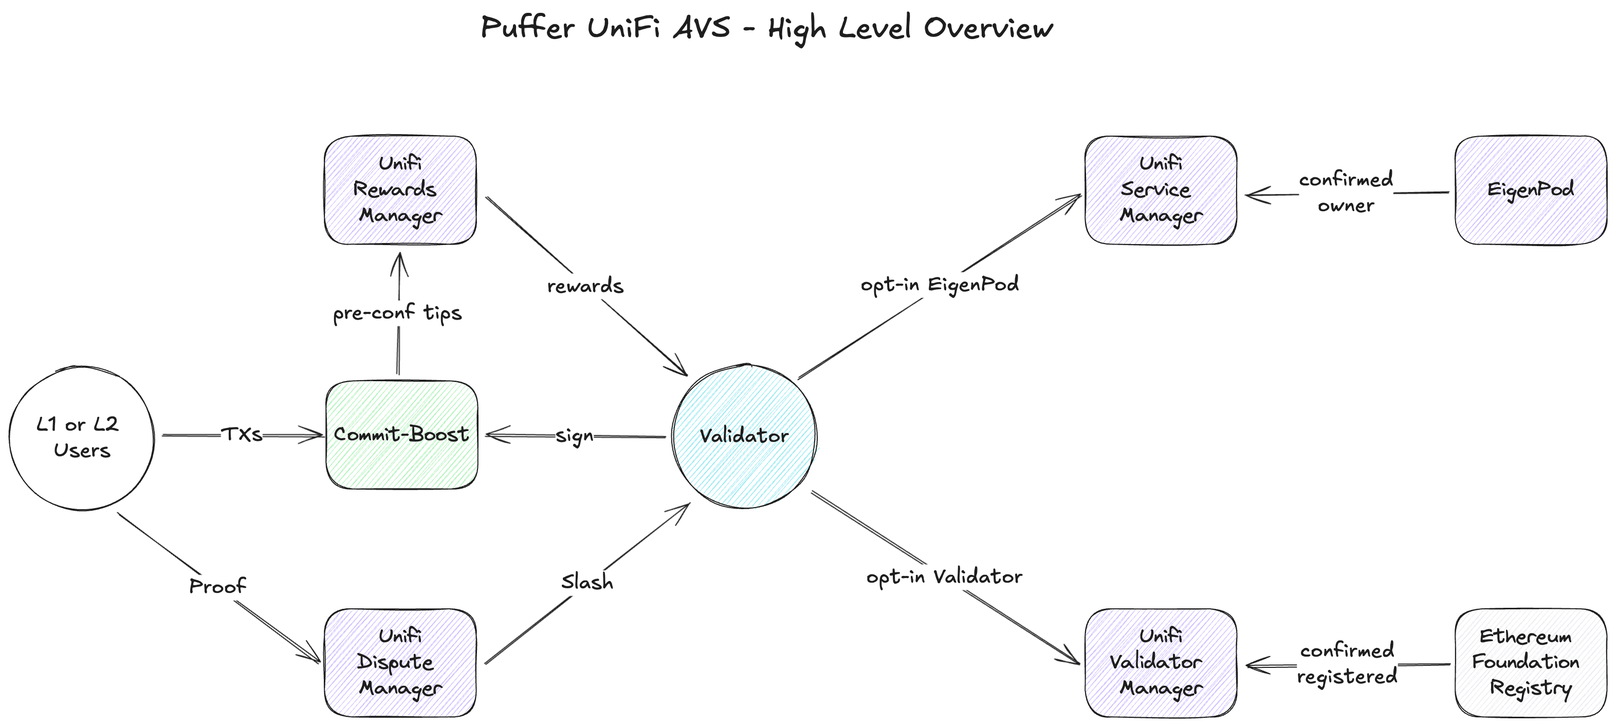
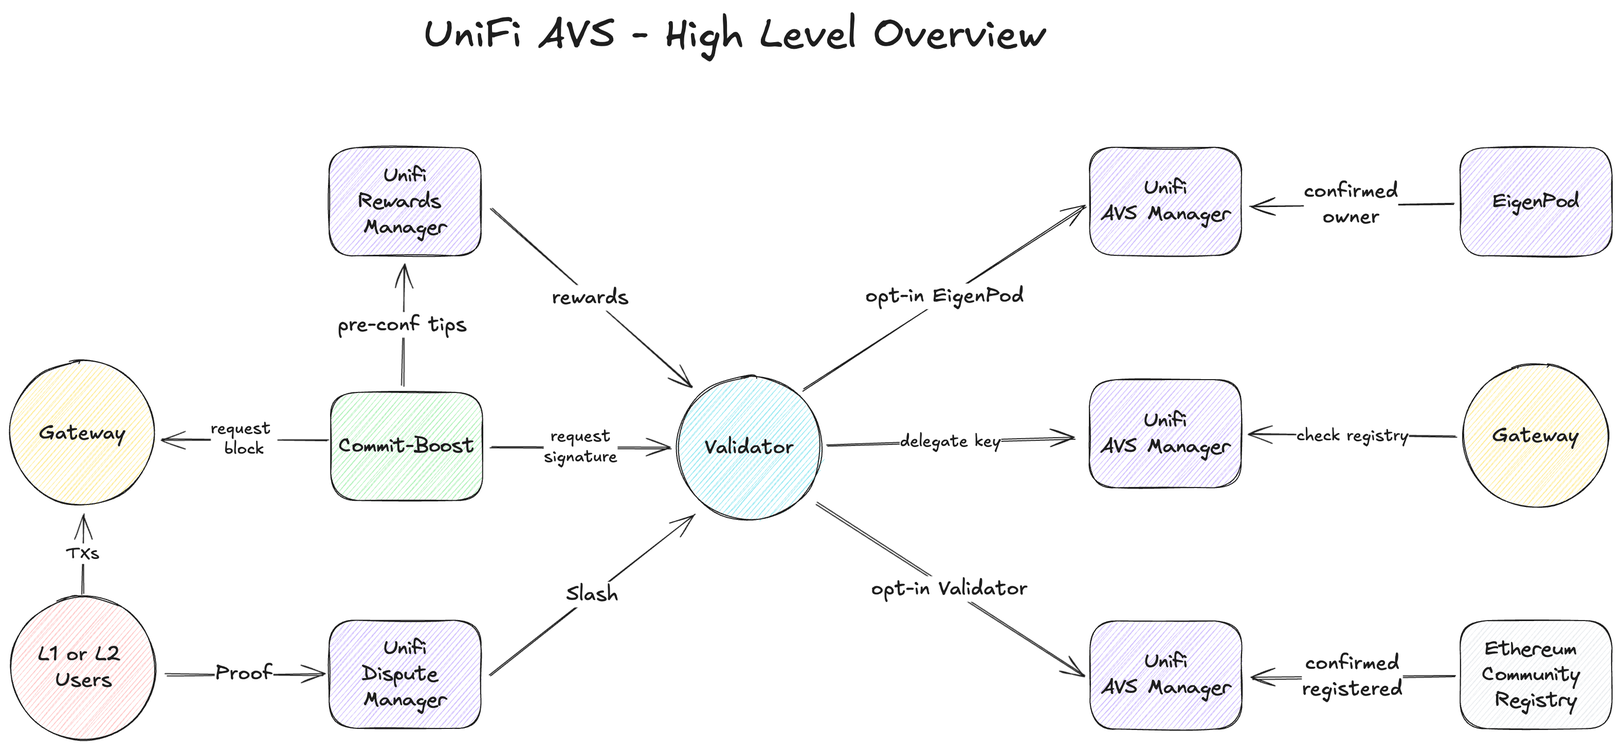
Add an sequence diagrams and updated system interactions diagram to architecture page

diff --git a/l1-contracts/docs/overview.md b/l1-contracts/docs/overview.md
@@ -1,10 +1,10 @@
 # UniFi AVS
 
 ## TL;DR
-UniFi AVS is an EigenLayer-based solution addressing challenges in Ethereum's pre-confirmation (pre-conf) ecosystem. It offers permissionless validator participation, on-chain registry, and slashing mechanisms for accountability. Built on EigenLayer and integrating Commit-Boost, UniFi AVS aims to provide fast, secure, and neutral pre-confirmations for based rollups, enhancing Ethereum's scalability while maintaining its core principles.
+UniFi AVS is an EigenLayer-based solution addressing challenges in Ethereum's preconfirmation (preconf) ecosystem. It offers permissionless validator participation, on-chain registry, and slashing mechanisms for accountability. Built on EigenLayer and integrating Commit-Boost, UniFi AVS aims to provide fast, secure, and neutral preconfirmations for based rollups, enhancing Ethereum's scalability while maintaining its core principles.
 
 ## Introduction
-UniFi AVS is an EigenLayer AVS (Actively Validated Service) designed for based pre-confirmations (pre-confs) in the Ethereum ecosystem. This document outlines the context, problem statement, and details of the  UniFi AVS.
+UniFi AVS is an EigenLayer AVS (Actively Validated Service) designed for based preconfirmations (preconfs) in the Ethereum ecosystem. This document outlines the context, problem statement, and details of the  UniFi AVS.
 
 ## Background
 
@@ -14,17 +14,17 @@ EigenLayer is a protocol that allows Ethereum validators to restake their ETH an
 ### Proposer Commitments
 Proposer commitments are a mechanism in Ethereum where validators can make specific promises about their behavior when proposing blocks. These commitments are enforced through slashing conditions, meaning that validators who break their commitments risk losing a portion of their staked Ether. This system creates strong incentives for validators to act honestly and in accordance with their stated commitments, enhancing the overall security and reliability of the network.
 
-### Pre-confirmations (Pre-confs)
-Pre-confirmations, often referred to as pre-confs, are an example of a proposer commitment under the broader umbrella of Ethereum's consensus mechanisms. Pre-confs are used to provide transaction confirmation times faster than the Ethereum natively allows, by allowing validators to commit to include transactions in their blocks before they propose it to the L1.
+### preconfirmations (preconfs)
+preconfirmations, often referred to as preconfs, are an example of a proposer commitment under the broader umbrella of Ethereum's consensus mechanisms. preconfs are used to provide transaction confirmation times faster than the Ethereum natively allows, by allowing validators to commit to include transactions in their blocks before they propose it to the L1.
 
-By leveraging EigenLayer, pre-confirmation services can tap into a large pool of restaked validators, improving the security guarantees and efficiency of the pre-conf supply chain.   This process can significantly improve the user experience for all Ethereum users by providing order of magnitude faster transactions (~100ms instead of 12s).
+By leveraging EigenLayer, preconfirmation services can tap into a large pool of restaked validators, improving the security guarantees and efficiency of the preconf supply chain.   This process can significantly improve the user experience for all Ethereum users by providing order of magnitude faster transactions (~100ms instead of 12s).
 
-The following diagram illustrates the difference between a pre-conf'd transaction and a normal transaction:
+The following diagram illustrates the difference between a preconf'd transaction and a normal transaction:
 
 ```mermaid
 sequenceDiagram
     participant User
-    participant Pre-confer
+    participant preconfer
     participant Ethereum
 
     alt Normal Transaction
@@ -32,22 +32,22 @@ sequenceDiagram
         Note over Ethereum: Wait for block (12s)
         Ethereum->>User: Transaction Confirmed
 
-    else Pre-conf'd Transaction
-        User->>Pre-confer: Submit Pre-conf'd Transaction
-        Pre-confer->>User: Pre-conf (100ms)
-        Pre-confer->>Ethereum: Include in next block
+    else preconf'd Transaction
+        User->>preconfer: Submit preconf'd Transaction
+        preconfer->>User: preconf (100ms)
+        preconfer->>Ethereum: Include in next block
         Note over Ethereum: Wait for block (12s)
         Ethereum->>User: Transaction Confirmed
     end
 ```
 
-This diagram shows how pre-conf'd transactions provide much faster initial confirmation to the user, while still ensuring the transaction is included in the Ethereum blockchain.
+This diagram shows how preconf'd transactions provide much faster initial confirmation to the user, while still ensuring the transaction is included in the Ethereum blockchain.
 
 ## Motivation
 
-### Based L1 Pre-confirmations
+### Based L1 preconfirmations
 
-Based L1 pre-confirmations significantly enhance the user experience on Ethereum. By providing near-instant transaction confirmations (~100ms), it allows Ethereum to compete effectively with alternative Layer 1 blockchains with shorter block times. This improvement is achieved without compromising Ethereum's core value of maintaining a decentralized validator set.
+Based L1 preconfirmations significantly enhance the user experience on Ethereum. By providing near-instant transaction confirmations (~100ms), it allows Ethereum to compete effectively with alternative Layer 1 blockchains with shorter block times. This improvement is achieved without compromising Ethereum's core value of maintaining a decentralized validator set.
 
 Key benefits include:
 - Dramatically improved transaction speed and UX for users
@@ -57,30 +57,30 @@ Key benefits include:
 
 ### Based Rollups
 
-Based rollups, also known as L1-sequenced rollups, represent a significant advancement in Ethereum's scalability and efficiency. They address critical challenges in the Ethereum ecosystem while maintaining its core principles:
+Based rollups, also known as L1-sequenced rollups, are a prime example of where preconfs can be used. Based rollups are an improvement to the rollup stack that helps address the fragmentation problem on Ethereum today, while maintaining its core principles. However, on their own, based rollups suffer from slow (12s) confirmation times that would likely prevent adoption. Fortunately preconfs can be used to solve this:
 
 ```mermaid
 sequenceDiagram
     participant User
-    participant Pre-confer
+    participant preconfer
     participant Ethereum
 
-    User->>Pre-confer: Submit L1 tx or based rollup tx
-    Pre-confer->>User: Pre-conf (100ms)
-    Pre-confer->>Pre-confer: Batch based rollup txs
-    Pre-confer->>Pre-confer: Build L1 block
-    Pre-confer->>Ethereum: Propose L1 block
+    User->>preconfer: Submit L1 tx or based rollup tx
+    preconfer->>User: preconf (100ms)
+    preconfer->>preconfer: Batch based rollup txs
+    preconfer->>preconfer: Build L1 block
+    preconfer->>Ethereum: Propose L1 block
     Ethereum->>User: Transaction confirmed
 ```
 
-This diagram illustrates the flow of a transaction in a based rollup with pre-confirmations:
-1. A user submits an L1 transaction or a based rollup transaction to the Pre-confer.
-2. The Pre-confer quickly sends a pre-confirmation (within ~100ms) back to the user.
-3. The Pre-confer batches based rollup transactions into L2 blocks and includes them with other L1 transactions to form an L1 block.
-4. The Pre-confer proposes the L1 block to Ethereum.
+This diagram illustrates the flow of a transaction in a based rollup with preconfirmations:
+1. A user submits an L1 transaction or a based rollup transaction to the preconfer.
+2. The preconfer quickly sends a preconfirmation (within ~100ms) back to the user.
+3. The preconfer batches based rollup transactions into L2 blocks and includes them with other L1 transactions to form an L1 block.
+4. The preconfer proposes the L1 block to Ethereum.
 5. The L1 block is confirmed on-chain.
 
-This flow demonstrates how based rollups with pre-confirmations can provide fast initial confirmations to users while still ensuring final settlement on Ethereum L1.
+This flow demonstrates how based rollups with preconfirmations can provide fast initial confirmations to users while still ensuring final settlement on Ethereum L1.
 
 Key features of based rollups include:
 
@@ -94,7 +94,7 @@ Key features of based rollups include:
 
 However, based rollups face challenges related to soft confirmations. Unlike centralized sequencers, which serve as centralized points where users can reliably obtain promises for transaction submission to L1, based rollups rely on Ethereum validators for sequencing, which adheres to 12-second block production times.
 
-This is where pre-confirmations (preconfs) become crucial:
+This is where preconfirmations (preconfs) become crucial:
 
 1. Stronger Assurances: Preconfs provide stronger assurances from Ethereum validators who are in line to propose blocks. If preconfers fail to fulfill their promises, they face slashing penalties, incentivizing for reliability.
 
@@ -103,47 +103,47 @@ This is where pre-confirmations (preconfs) become crucial:
 The combination of based rollups and preconfs creates a powerful solution that addresses Ethereum's fragmentation problem and promotes a more unified and efficient rollup ecosystem. This synergy enables the network to offer a user experience that rivals or surpasses centralized solutions while maintaining the core benefits of decentralization and security.
 
 ## Problem Statement
-Ideally, an on-chain pre-conf service should allow for:
+Ideally, an on-chain preconf service should allow for:
 1. Permissionless validator participation
-2. An neutral registry for pre-conferring validators
-3. An means to slash validators who break their pre-conf promises
+2. A neutral registry for preconfing validators
+3. An means to slash validators who break their preconf promises
 
-**Need for On-chain Registrations**: Currently, pre-conf registrations are handled entirely off-chain. This approach results in:
-- No on-chain accountability for pre-confers
-- No centralized, discoverable location for pre-confers
-- Difficulty for those building pre-conf infrastructure to find and verify pre-confers
+**Need for On-chain Registrations**: Currently, preconf registrations are handled entirely off-chain. This approach results in:
+- No on-chain accountability for preconfers
+- No centralized, discoverable location for preconfers
+- Difficulty for those building preconf infrastructure to find and verify preconfers
 
-The Ethereum Foundation is addressing this issue by developing a neutral registry contract that doesn't belong to any specific protocol, providing a common ground for pre-confer discovery and verification.
+The Ethereum community is addressing this issue by developing a neutral registry contract that doesn't belong to any specific protocol, providing a common ground for preconfer discovery and verification.
 
 **Need for Slashing Mechanisms**: Without the ability to slash validators who break their commitments, we cannot enforce credible proposer commitments without introducing external consensus protocols and additional trust assumptions. There are two potential approaches to implement slashing:
 - *Slashing part of the validator's Ether*: This requires reimplementing restaking smart contract logic, which is complex but capital efficient.
 - *Requiring additional collateral*: This is easier to implement but far less capital efficient.
 
-In summary, pre-confs require both an on-chain registry and a means to slash validators. While the Ethereum Foundation is tackling the first issue in a way that preserves neutrality, there remains a need for a capital-efficient and flexible solution to the slashing problem.
+In summary, preconfs require both an on-chain registry and a means to slash validators. While the Ethereum community is tackling the first issue in a way that preserves neutrality, there remains a need for a capital-efficient and flexible solution to the slashing problem.
 
- UniFi AVS aims to address these challenges, particularly focusing on developing a capital-efficient and flexible slashing mechanism that can work in conjunction with the neutral registry being developed by the Ethereum Foundation.
+UniFi AVS aims to address these challenges, particularly focusing on developing a capital-efficient and flexible slashing mechanism that can work in conjunction with the neutral registry being developed by the Ethereum Foundation.
 
-##  UniFi AVS
+## UniFi AVS
 
-The  UniFi AVS leverages EigenLayer's restaking capabilities to address the slashing problem and create a permissionless, neutral, and flexible pre-confirmation service.
+UniFi AVS leverages EigenLayer's restaking capabilities to address the slashing problem and create a permissionless, neutral, and flexible preconfirmation service.
 
 ### Key Components
 
-1. **EigenLayer Integration**: The AVS is built on top of EigenLayer, allowing it to tap into the vast supply of natively restaked validators. This integration helps quickly bootstrap the pre-confer set in terms of the number of validators and total economic security. Natively restaked validators can use their restaked Ether as pre-conf collateral instead of requiring additional deposits, improving capital efficiency. 
+1. **EigenLayer Integration**: The AVS is built on top of EigenLayer, allowing it to tap into the vast supply of natively restaked validators. This integration helps quickly bootstrap the preconfer set in terms of the number of validators and total economic security. Natively restaked validators can use their restaked Ether as preconf collateral instead of requiring additional deposits, improving capital efficiency. 
 
-2. **On-Chain Registry**:  UniFi AVS implements an on-chain registry of pre-conferring validators. This registry ensures transparency and allows for permissionless participation of validators in the pre-confirmation process.
+2. **On-Chain Registry**:  UniFi AVS implements an on-chain registry of preconfing validators. This registry ensures transparency and allows for permissionless participation of validators in the preconfirmation process.
 
-3. **Slashing Mechanism**: The AVS incorporates slashing conditions to enforce accountability. Validators who break their pre-confirmation promises can be penalized, creating a strong incentive for honest behavior.
+3. **Slashing Mechanism**: The AVS incorporates slashing conditions to enforce accountability. Validators who break their preconfirmation promises can be penalized, creating a strong incentive for honest behavior.
 
 ### Requirements
 
 The primary requirement for participating in the  UniFi AVS is:
 
-- **EigenPod Ownership**: EigenPods are the vehicle for Ethereum validators to interface with EigenLayer. They are necessary for the AVS to be able to slash validators that break their pre-conf promises. 
+- **EigenPod Ownership**: EigenPods are the vehicle for Ethereum validators to interface with EigenLayer. They are necessary for the AVS to be able to slash validators that break their preconf promises. 
 
-- **32 Ether**: Since an Ethereum validator is required, a pre-confer requires at least 32 Ether to participate in the AVS; however, the AVS is agnostic as to whether the operator is running home validators or is part of an LRT.
+- **32 Ether**: Since an Ethereum validator is required, a preconfer requires at least 32 Ether to participate in the AVS; however, the AVS is agnostic as to whether the operator is running home validators or is part of an LRT.
 
-- **Commit-Boost**: Operators must run Commit-Boost software alongside their validator client. Commit-Boost is essential for performing the pre-confirmation services, handling the communication between validators and the pre-conf supply chain.
+- **Commit-Boost**: Operators must run Commit-Boost software alongside their validator client. Commit-Boost is essential for performing the preconfirmation services, handling the communication between validators and the preconf supply chain.
 
 
 
@@ -151,15 +151,15 @@ The primary requirement for participating in the  UniFi AVS is:
 
 #### Importance of Neutrality
 
-A crucial aspect of the  UniFi AVS is its commitment to neutrality. As a service operating at the core of Ethereum's transaction processing, maintaining impartiality and unbiased operation is essential. The design of  UniFi AVS incorporates neutrality as a fundamental principle, aligning with Ethereum's ethos and ensuring the integrity of the pre-confirmation process. By avoiding the requirement of a specific governance token for participation,  UniFi AVS maintains a level playing field for all participants and reinforces its commitment to the broader Ethereum ecosystem.
+A crucial aspect of the  UniFi AVS is its commitment to neutrality. As a service operating at the core of Ethereum's transaction processing, maintaining impartiality and unbiased operation is essential. The design of  UniFi AVS incorporates neutrality as a fundamental principle, aligning with Ethereum's ethos and ensuring the integrity of the preconfirmation process. By avoiding the requirement of a specific governance token for participation,  UniFi AVS maintains a level playing field for all participants and reinforces its commitment to the broader Ethereum ecosystem.
 
 This neutrality ensures:
 
 1. **Permissionless Participation**: Registrations are completely permissionless and will not be censored.
-2. **Neutral Registry Integration**: The contract will require that validators are first registered with the neutral registry contract developed by the Ethereum Foundation.
+2. **Neutral Registry Integration**: The contract will require that validators are first registered with the neutral registry contract developed by the Ethereum community.
 3. **No Governance Token Requirement**: Unlike some EigenLayer AVSs that opt for dual-staking (requiring their native governance token as one of the restaked collateral assets),  UniFi AVS will only require validators to restake their beacon chain ETH.
 
-These measures collectively ensure that the  UniFi AVS remains open, fair, and aligned with Ethereum's core principles of decentralization and neutrality.
+These measures collectively ensure that the UniFi AVS remains open, fair, and aligned with Ethereum's core principles of decentralization and neutrality.
 
 #### Usage of Commit-Boost
 
@@ -167,73 +167,24 @@ UniFi AVS integrates Commit-Boost, a key component in the Ethereum ecosystem tha
 
 1. **Open Source and Public Good**: Commit-Boost is developed as open-source software and functions as a public good. This approach ensures that long-term network effects benefit the broader Ethereum community rather than any single entity. Following the model of MEV-Boost, Commit-Boost aims to serve as a shared resource that enhances the entire ecosystem.
 
-2. **Standardization Efforts**: With the proliferation of proposer commitment protocols, Commit-Boost plays a crucial role in standardization. This allows AVS providers like Puffer to concentrate on core functionalities such as slashing and registrations, while remaining independent of specific pre-confirmation implementations (e.g., inclusion vs. execution pre-conf). By offering a standardized interface, Commit-Boost facilitates easier integration and promotes interoperability across various protocols.
+2. **Standardization Efforts**: With the proliferation of proposer commitment protocols, Commit-Boost plays a crucial role in standardization. This allows AVS providers like Puffer to concentrate on core functionalities such as slashing and registrations, while remaining independent of specific preconfirmation implementations (e.g., inclusion vs. execution preconf). By offering a standardized interface, Commit-Boost facilitates easier integration and promotes interoperability across various protocols.
 
-Through the integration of Commit-Boost,  UniFi AVS can harness these advantages to deliver more efficient, standardized, and community-focused pre-confirmation services, all while upholding Ethereum's fundamental principles of decentralization and openness.
+Through the integration of Commit-Boost, UniFi AVS can harness these advantages to deliver more efficient, standardized, and community-focused preconfirmation services, all while upholding Ethereum's fundamental principles of decentralization and openness.
 
 ## Technical Details
-
-### Overview
-The following diagram highlights system's main software components:
-> ![alt text](images/component-overview.png)
-
-The following diagram highlights how these components interact with each other:
-> ![alt text](images/system-overview.png)
-
-
-### AVS Registration
-#### Operator Registration
-At a high level it is required for an `Operator` within the EigenLayer contracts to opt-in to the AVS. See the [Operator Registration Process](registration.md#operator-registration-process) section for more details.
-
-#### Delegate Key Registration
-Each `Operator` will register a single `delegateKey` that will be used to issue pre-confs. See the [Delegate Key Registration](registration.md#delegate-key-registration) section for more details.
-
-#### Validator Registration
-If an EigenPod owner has delegated their stake to the `Operator`, then their validators can be registered as pre-conferers in the AVS. See the [Validator Registration](registration.md#validator-registration) section for more details.
-
-> **Aside on Neutrality**: In the spirit of neutrality, it is important to keep pre-conf registrations credibly neutral. As such, the Ethereum Foundation is working to launch a permissionless registry contract that exists outside of any protocols (i.e., outside of Puffer or EigenLayer). To prevent fragmentation, the `UniFiAVSManager` contract will look to this registry as a primary source when validators register. Once the neutral registry contract is available, an additional check can be added.
-
-### Rewards Distribution
-
-The rewards distribution in UniFi AVS is designed to provide a consistent and attractive incentive structure for participating validators. Key features of the rewards system include:
-
-1. Pre-confirmation fees
-2. MEV-smoothing mechanism
-3. Ether payouts
-4. Competitive earnings potential
-
-For a comprehensive overview of the rewards distribution system, including its key features, benefits, and impact on the Ethereum ecosystem, please see the [Rewards Distribution](rewards.md) document.
-
-### Slashing Mechanism
-
-UniFi AVS implements slashing to ensure the integrity of the pre-confirmation process. This mechanism is designed to penalize validators who break their pre-confirmation promises or fail to fulfill their duties.
-
-The slashing mechanism consists of two main components:
-
-1. Safety Faults: Penalties for breaking pre-confirmation promises.
-2. Liveness Faults: Penalties for missing block proposals.
-3. Rewards Stealing: Penalties for 'Rug-Pooling'.
-
-For a detailed explanation of the slashing mechanism, including the types of faults, the slashing process, and future developments, please refer to the [Slashing Mechanism](slashing.md) document.
-
-
-### Node Software
- UniFi AVS has a tight coupling with Commit-Boost, allowing validators to seamlessly participate in the pre-confirmation process while maintaining their regular validation duties. Validators will run Commit-Boost alongside their standard validator stack. When they are ready to propose a block, they have the flexibility to choose how they want to handle their pre-confirmation responsibilities. Options include:
-
-1. Self-build: The validator can use Commit-Boost to directly handle their pre-confirmation responsibilities.
-2. Delegate: The validator can use Commit-Boost to delegate their pre-confirmation duties to another entity e.g., a sophisticated Gateway.
+See the [Architcture Doc](architcture.md) for more technical details on the AVS.
 
 ## Conclusion
-UniFi AVS aims to advance Ethereum's proposer commitment ecosystem, offering substantial benefits to users, validators, and the network as a whole. By leveraging EigenLayer's infrastructure, this solution addresses critical challenges in the pre-confirmation supply chain while maintaining Ethereum's core principles of decentralization and security.
+UniFi AVS aims to advance Ethereum's proposer commitment ecosystem, offering substantial benefits to users, validators, and the network as a whole. By leveraging EigenLayer's infrastructure, this solution addresses critical challenges in the preconfirmation supply chain while maintaining Ethereum's core principles of decentralization and security.
 
 For Ethereum users,  UniFi AVS promises a dramatically improved transaction experience. By enabling near-instant transaction confirmations (~100ms), it brings Ethereum's user experience on par with, or even surpassing, that of alt L1s with shorter block times. This improvement in speed and reliability can significantly enhance user satisfaction and potentially drive greater adoption of Ethereum-based applications.
 
-The pre-conf supply chain also stands to benefit greatly from  UniFi AVS. By implementing an on-chain registry of pre-conferring validators and incorporating robust slashing mechanisms, the system ensures accountability and incentivizes honest behavior. This increased reliability and transparency in the pre-confirm process can lead to a more efficient and trustworthy ecosystem for all participants.
+The preconf supply chain also stands to benefit greatly from  UniFi AVS. By implementing an on-chain registry of preconfing validators and incorporating robust slashing mechanisms, the system ensures accountability and incentivizes honest behavior. This increased reliability and transparency in the preconfirm process can lead to a more efficient and trustworthy ecosystem for all participants.
 
-For validators,  UniFi AVS opens up new opportunities for revenue generation. By allowing validators to offer pre-conf services, it creates an additional income stream, potentially making validation more profitable and attractive. This could lead to increased participation in Ethereum's consensus mechanism, further strengthening the network's security and decentralization.
+For validators,  UniFi AVS opens up new opportunities for revenue generation. By allowing validators to offer preconf services, it creates an additional income stream, potentially making validation more profitable and attractive. This could lead to increased participation in Ethereum's consensus mechanism, further strengthening the network's security and decentralization.
 
-From a broader perspective,  UniFi AVS aligns perfectly with Ethereum's long-term goals of improving scalability and user experience. By enabling fast pre-confs without requiring changes to Ethereum's core protocol, it demonstrates how innovation at the application layer can drive significant improvements in the overall network functionality.
+From a broader perspective,  UniFi AVS aligns perfectly with Ethereum's long-term goals of improving scalability and user experience. By enabling fast preconfs without requiring changes to Ethereum's core protocol, it demonstrates how innovation at the application layer can drive significant improvements in the overall network functionality.
 
 While built on EigenLayer, the impact of  UniFi AVS extends far beyond this ecosystem. It serves as a prime example of how restaking and AVSs can enable new, innovative solutions that enhance Ethereum's capabilities. The success of this system could pave the way for further innovations, potentially catalyzing a new wave of development and improvement in the Ethereum ecosystem.
 
-In conclusion,  UniFi AVS represents a crucial step forward in Ethereum's evolution. By addressing key challenges in the pre-confirmation process, it promises to deliver tangible benefits to users, validators, and the broader Ethereum community. As this system matures and gains adoption, it has the potential to significantly contribute to Ethereum's growth, cementing its position as a leading blockchain platform for decentralized applications and financial services.
+In conclusion,  UniFi AVS represents a crucial step forward in Ethereum's evolution. By addressing key challenges in the preconfirmation process, it promises to deliver tangible benefits to users, validators, and the broader Ethereum community.

diff --git a/l1-contracts/docs/architcture.md b/l1-contracts/docs/architcture.md
@@ -7,39 +7,81 @@ The following diagram highlights how these components interact with each other:
 
 ## Preconf Flow
 
-The preconfirmation (preconf) flow in UniFi AVS involves several steps and interactions between different components of the system. The following sequence diagram illustrates this process:
+The preconf flow in UniFi AVS involves several steps and interactions between different components of the system. The following sequence diagram illustrates this process:
 
-![Preconf Flow Sequence Diagram](images/preconf-flow-sequence.mermaid)
+```mermaid
+sequenceDiagram
+    autonumber
+    participant U as Users
+    participant O as Operator
+    participant UAM as UniFiAVSManager
+    participant G as Gateway
+    participant BN as Beacon Node
+    participant CB as Commit-Boost
+    participant RM as RewardsManager
+    participant L1 as Ethereum L1
+
+    O->>UAM: Set delegate key to Gateway
+    G->>BN: Query lookahead window
+    BN-->>G: Return upcoming proposer indices
+    loop For each validator
+        G->>UAM: getValidator(validatorIndex)
+        UAM-->>G: Validator registration status
+    end
+    Note over G: confirm Gateway is delegated to
+    U->>G: Send transactions to preconf RPC / router
+    G-->>U: Return Gateway-signed pre-confs
+    CB->>CB: wait for slot...
+    CB->>G: Request L1 block
+    G-->>CB: Provide L1 block
+    CB->>L1: Propose L1 block
+    L1->>G: gateway fee
+    O->>RM: Claim AVS rewards
+```
 
 Here's a detailed description of the preconf flow:
 
-1. **Delegate Key Setup**: 
+0. **Registration (Not Shown)**: 
+    - The `Operator` is assumed to already be [registered](registration.md#operator-registration-process) to the UniFi AVS.
+
+1) **Delegate Key Setup**: 
    - The operator sets their delegate key to point to a Gateway. This allows the Gateway to act on behalf of the operator for preconfirmation duties.
 
-2. **Lookahead Window Query**:
-   - The Gateway queries their associated BeaconNode to check the lookahead window.
-   - The BeaconNode returns the validator indices of the upcoming proposers.
+2. **Lookahead Window Request**:
+   - The Gateway queries their Beacon node to check the lookahead window 
+   
+3. **Lookahead Window Response**:
+    - The Gateway learns the validator indices of the upcoming proposers.
 
-3. **Validator Registration Check**:
+4. **getValidator call**:
    - For each validator index received, the Gateway queries the UniFiAVSManager contract using the `getValidator` function.
-   - This check confirms if the validators are registered to the AVS and if they have delegated to the Gateway.
 
-4. **Preconf Processing**:
-   - If the validators are registered and delegated, the Gateway starts receiving preconf transactions.
-   - The Gateway signs preconfs with their delegate key.
+5. **getValidator response**:
+   - The contract returns information if the validator is registered on the AVS. The Gateway can confirm that the validator has delegated to them via the `delegateKey` field.
 
-5. **Block Proposal**:
-   - When it's time to propose a block, the user (via Commit-Boost) requests the final L1 from the Gateway.
-   - The Gateway provides the final L1 to Commit-Boost.
-   - Commit-Boost uses this information to help the operator propose the block.
+6. **User Transactions**:
+   - Users can begin sending transactions to the Gateway via the Gateway's RPC or a Router. 
+   
+7. **Gateway Response**:
+   - The Gateway signs preconfs with their delegate key and returns the signatures to the Users.
 
-6. **Reward Distribution**:
-   - After the block is proposed, the block rewards are split:
-     - A portion is sent directly to the Gateway as compensation for their services.
-     - The rest is sent to the RewardsManager contract.
-   - The RewardsManager smooths out the rewards from multiple validators, ensuring a more consistent distribution over time.
+8. **Validator Operations**:
+    - The validator's Commit-Boost client will wait until the block proposal slot.
 
-This flow ensures that the preconfirmation process is efficient, secure, and properly incentivized. It leverages the strengths of different components in the UniFi AVS ecosystem, from the Gateway's ability to handle preconf duties to the RewardsManager's role in fair reward distribution.
+9. **L1 Block Request**:
+   - When it's time to propose a block, the validator (via Commit-Boost) requests the final L1 block from the Gateway.
+   
+10. **L1 Block Response**:
+   - The Gateway returns an L1 block containing the pre-conf'd transactions.
+
+11. **L1 Block Proposal**:
+   - The validator broadcasts the L1 block to the rest of the validators, adding it to the L1 state.
+
+12. **Gateway Reward**:
+    - A flat fee is awarded to the Gateway for their coordination services.
+
+13. **AVS Reward**:
+    - The rest of the block rewards are deposited into the `RewardsManager` contract. Here the RewardsManager smooths out the rewards from the participating validators, ensuring a more consistent distribution over time.
 
 ## Node Software
 The following diagram highlights system's main software components:
